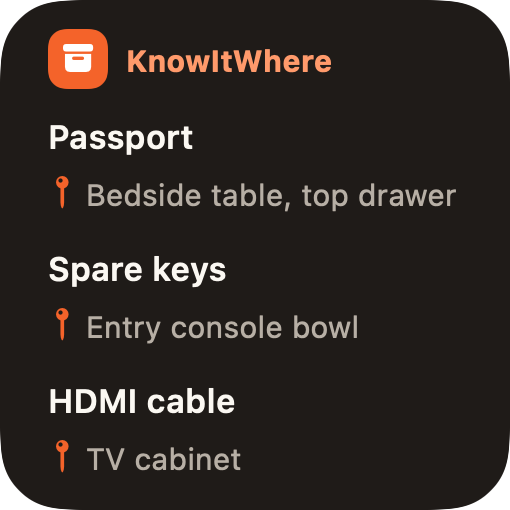
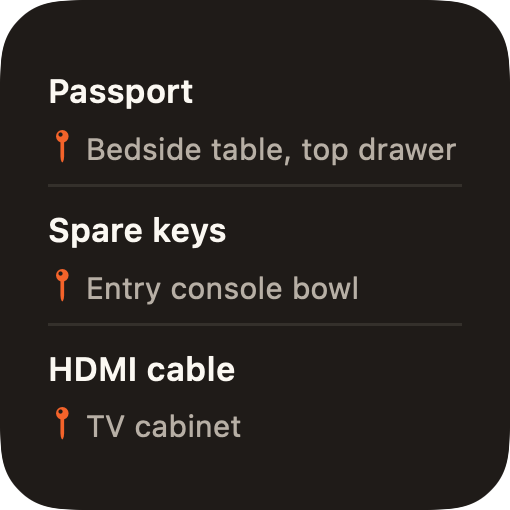
Widget: fit at any text size, cleaner index rows
On the device the medium widget's cards were taller than the widget at a
slightly larger text size, clipping the header and the bottom row. Drop
the app-name header (iOS prints it under the widget), show name/location
rows with hairlines like the app's Index, and pick the most rows that fit
with ViewThatFits so larger text shows fewer items instead of clipping.
Dynamic Type is capped at xxLarge. Pin and + are widgetAccentable for
tinted home screens.

Changed region(s): [[0.0882, 0.0588, 0.9118, 0.9412]]

diff --git a/ios/KnowItWhereKit/Sources/KnowItWhereWidgetUI/KnowItWhereWidget.swift b/ios/KnowItWhereKit/Sources/KnowItWhereWidgetUI/KnowItWhereWidget.swift
@@ -3,7 +3,7 @@ import SwiftUI
 import WidgetKit
 
 /// Home-screen widget (FR4): the most recently updated items as
-/// name → location cards. Display and shortcut only — no input or scrolling.
+/// name → location rows. Display and shortcut only — no input or scrolling.
 public struct KnowItWhereWidget: Widget {
   public init() {}
 
@@ -78,6 +78,10 @@ public struct ItemsWidgetView: View {
 }
 
 /// The widget body without WidgetKit's container, so previews can render it.
+///
+/// No app-name header: iOS already prints "KnowItWhere" under the widget.
+/// Rows are added only while they fit, so large text shows fewer items
+/// instead of clipping the first and last ones.
 struct ItemsWidgetContent: View {
   let entry: ItemsEntry
   let isSmall: Bool
@@ -90,67 +94,84 @@ struct ItemsWidgetContent: View {
       if entry.items.isEmpty {
         EmptyContent(palette: palette)
       } else if isSmall {
-        VStack(alignment: .leading, spacing: 0) {
-          Header(palette: palette, showsAdd: false, linksEnabled: linksEnabled)
-          Spacer(minLength: 6)
-          VStack(alignment: .leading, spacing: 7) {
-            ForEach(SharedCache.recents(entry.items, limit: 3)) { item in
-              StackedRow(item: item, palette: palette)
-            }
-          }
-          Spacer(minLength: 0)
+        ViewThatFits(in: .vertical) {
+          smallRows(limit: 3)
+          smallRows(limit: 2)
+          smallRows(limit: 1)
         }
       } else {
-        VStack(alignment: .leading, spacing: 8) {
-          Header(palette: palette, showsAdd: true, linksEnabled: linksEnabled)
-          LazyVGrid(
-            columns: [GridItem(.flexible(), spacing: 8), GridItem(.flexible(), spacing: 8)],
-            spacing: 8
-          ) {
-            ForEach(SharedCache.recents(entry.items, limit: 4)) { item in
-              WidgetLink(DeepLink.item(item.id), enabled: linksEnabled) {
-                ItemCard(item: item, palette: palette)
-              }
-            }
+        VStack(alignment: .leading, spacing: 4) {
+          MediumHeader(palette: palette, linksEnabled: linksEnabled)
+          ViewThatFits(in: .vertical) {
+            mediumRows(limit: 3)
+            mediumRows(limit: 2)
+            mediumRows(limit: 1)
           }
-          Spacer(minLength: 0)
         }
       }
     }
     .foregroundStyle(palette.text)
     .frame(maxWidth: .infinity, maxHeight: .infinity, alignment: .topLeading)
+    // Past this, even one row stops fitting; Apple's widgets cap it too.
+    .dynamicTypeSize(...DynamicTypeSize.xxLarge)
+  }
+
+  private func smallRows(limit: Int) -> some View {
+    rows(limit: limit) { StackedRow(item: $0, palette: palette) }
+  }
+
+  private func mediumRows(limit: Int) -> some View {
+    rows(limit: limit) { item in
+      WidgetLink(DeepLink.item(item.id), enabled: linksEnabled) {
+        InlineRow(item: item, palette: palette)
+      }
+    }
+  }
+
+  /// The [limit] most recent items, separated by hairlines.
+  private func rows<Row: View>(limit: Int, @ViewBuilder row: @escaping (SharedItem) -> Row)
+    -> some View
+  {
+    let items = SharedCache.recents(entry.items, limit: limit)
+    return VStack(alignment: .leading, spacing: 0) {
+      ForEach(Array(items.enumerated()), id: \.element.id) { index, item in
+        if index > 0 {
+          Rectangle().fill(palette.divider).frame(height: 1)
+        }
+        row(item)
+          .padding(.vertical, 4)
+          // Spread the rows that fit over the full height instead of
+          // leaving a gap at the bottom. ViewThatFits measures ideal
+          // heights, so this doesn't affect how many rows are chosen.
+          .frame(maxHeight: .infinity)
+      }
+    }
   }
 }
 
-/// App mark and name, plus a quick Add button on the medium widget.
-private struct Header: View {
+/// "Recent" and a quick Add button (medium only: small widgets have a single
+/// tap target).
+private struct MediumHeader: View {
   let palette: Palette
-  let showsAdd: Bool
   let linksEnabled: Bool
 
   var body: some View {
-    HStack(spacing: 6) {
-      Image(systemName: "archivebox.fill")
-        .font(.system(size: 10, weight: .bold))
-        .foregroundStyle(.white)
-        .frame(width: 20, height: 20)
-        .background(palette.accent, in: RoundedRectangle(cornerRadius: 6, style: .continuous))
-        .accessibilityHidden(true)
-      Text("KnowItWhere")
-        .font(.caption.weight(.bold))
+    HStack {
+      Text("RECENT")
+        .font(.caption2.weight(.bold))
+        .tracking(0.8)
         .foregroundStyle(palette.accentText)
-        .lineLimit(1)
+        .widgetAccentable()
       Spacer(minLength: 0)
-      if showsAdd {
-        WidgetLink(DeepLink.add, enabled: linksEnabled) {
-          Image(systemName: "plus")
-            .font(.system(size: 12, weight: .bold))
-            .foregroundStyle(.white)
-            .frame(width: 24, height: 24)
-            .background(palette.accent, in: Circle())
-        }
-        .accessibilityLabel("Add item")
+      WidgetLink(DeepLink.add, enabled: linksEnabled) {
+        Image(systemName: "plus")
+          .font(.system(size: 11, weight: .bold))
+          .foregroundStyle(.white)
+          .frame(width: 20, height: 20)
+          .background(palette.accent, in: Circle())
+          .widgetAccentable()
       }
+      .accessibilityLabel("Add item")
     }
   }
 }
@@ -187,31 +208,27 @@ private struct StackedRow: View {
         .lineLimit(1)
       Location(text: item.location, palette: palette)
     }
+    .frame(maxWidth: .infinity, alignment: .leading)
     .accessibilityElement(children: .combine)
     .accessibilityLabel("\(item.name), stored in \(item.location)")
   }
 }
 
-/// Medium widget: a white card per item, like the board's polaroids.
-private struct ItemCard: View {
+/// Medium widget: name and location side by side, like the app's Index.
+private struct InlineRow: View {
   let item: SharedItem
   let palette: Palette
 
   var body: some View {
-    VStack(alignment: .leading, spacing: 2) {
+    HStack(spacing: 8) {
       Text(item.name)
         .font(.subheadline.weight(.semibold))
         .lineLimit(1)
+        .frame(maxWidth: .infinity, alignment: .leading)
       Location(text: item.location, palette: palette)
+        .frame(maxWidth: .infinity, alignment: .trailing)
     }
-    .frame(maxWidth: .infinity, alignment: .leading)
-    .padding(.horizontal, 10)
-    .padding(.vertical, 8)
-    .background(palette.card, in: RoundedRectangle(cornerRadius: 12, style: .continuous))
-    .overlay(
-      RoundedRectangle(cornerRadius: 12, style: .continuous)
-        .strokeBorder(palette.cardBorder, lineWidth: 1)
-    )
+    .contentShape(Rectangle())
     .accessibilityElement(children: .combine)
     .accessibilityLabel("\(item.name), stored in \(item.location)")
   }
@@ -226,6 +243,7 @@ private struct Location: View {
       Image(systemName: "mappin")
         .font(.caption2.weight(.bold))
         .foregroundStyle(palette.accent)
+        .widgetAccentable()
       Text(text)
         .font(.caption)
         .foregroundStyle(palette.secondary)
@@ -271,9 +289,8 @@ private struct EmptyContent: View {
 /// Cream / ink / orange, matching the app theme (lib/theme/app_theme.dart).
 struct Palette {
   let background: Color
-  /// Item cards on the medium widget.
-  let card: Color
-  let cardBorder: Color
+  /// Hairlines between rows.
+  let divider: Color
   let text: Color
   let secondary: Color
   /// Icons and fills.
@@ -285,15 +302,13 @@ struct Palette {
     accent = Color(hex: 0xF4632A)
     if scheme == .dark {
       background = Color(hex: 0x1F1B18)
-      card = Color(hex: 0x2A2622)
-      cardBorder = Color(hex: 0x34302B)
+      divider = Color(hex: 0x34302B)
       text = Color(hex: 0xFBF8F2)
       secondary = Color(hex: 0xB7AFA5)
       accentText = Color(hex: 0xFF9A6B)
     } else {
       background = Color(hex: 0xFFF2E6)
-      card = .white
-      cardBorder = Color(hex: 0xF4D4BD)
+      divider = Color(hex: 0xF4D4BD)
       text = Color(hex: 0x261D17)
       secondary = Color(hex: 0x867265)
       accentText = Color(hex: 0xB4430F)

diff --git a/ios/KnowItWhereKit/Tests/KnowItWhereWidgetUITests/WidgetPreviewTests.swift b/ios/KnowItWhereKit/Tests/KnowItWhereWidgetUITests/WidgetPreviewTests.swift
@@ -27,17 +27,38 @@ final class WidgetPreviewTests: XCTestCase {
       for (family, size) in [("small", small), ("medium", medium)] {
         for (state, list) in [("items", items), ("empty", [])] {
           let name = "widget_\(family)_\(state)_\(scheme == .dark ? "dark" : "light")"
-          let data = try XCTUnwrap(render(list, isSmall: family == "small", scheme: scheme, size: size), name)
-          XCTAssertGreaterThan(data.count, 0)
-          if let dir = ProcessInfo.processInfo.environment["WIDGET_PREVIEW_DIR"] {
-            try data.write(to: URL(fileURLWithPath: dir).appendingPathComponent("\(name).png"))
-          }
+          try check(name, list, isSmall: family == "small", scheme: scheme, size: size)
         }
       }
     }
   }
 
-  private func render(_ items: [SharedItem], isSmall: Bool, scheme: ColorScheme, size: CGSize) -> Data? {
+  /// Larger text must drop rows, never clip them (the first device build
+  /// cut off the top and bottom rows at a larger text size). macOS ignores
+  /// the Dynamic Type environment, so this squeezes the height instead:
+  /// 30% less room is what 30% larger text needs. Written with a
+  /// "_tight" suffix for comparing by eye; not committed.
+  func testTightHeightRenders() throws {
+    for (family, size) in [("small", small), ("medium", medium)] {
+      try check(
+        "widget_\(family)_items_tight", items, isSmall: family == "small", scheme: .light,
+        size: CGSize(width: size.width, height: ((size.height - 32) / 1.3) + 32))
+    }
+  }
+
+  private func check(
+    _ name: String, _ list: [SharedItem], isSmall: Bool, scheme: ColorScheme, size: CGSize
+  ) throws {
+    let data = try XCTUnwrap(render(list, isSmall: isSmall, scheme: scheme, size: size), name)
+    XCTAssertGreaterThan(data.count, 0)
+    if let dir = ProcessInfo.processInfo.environment["WIDGET_PREVIEW_DIR"] {
+      try data.write(to: URL(fileURLWithPath: dir).appendingPathComponent("\(name).png"))
+    }
+  }
+
+  private func render(
+    _ items: [SharedItem], isSmall: Bool, scheme: ColorScheme, size: CGSize
+  ) -> Data? {
     let palette = Palette(scheme)
     let view = ItemsWidgetContent(
       entry: ItemsEntry(date: .now, items: items), isSmall: isSmall, palette: palette,

diff --git a/docs/SRS.md b/docs/SRS.md
@@ -132,7 +132,7 @@ No photo reference needed here — widget and Siri are both text-first by design
 
 ### FR4 — Widget (Native, reads §4.1 shared cache)
 
-- **FR4.1** Small/Medium widget shows the 3–5 most recently updated items as name → location rows
+- **FR4.1** Small/Medium widget shows up to 3 of the most recently updated items as name → location rows (fewer at large text sizes, never clipped)
 - **FR4.2** Tapping a row deep-links to that item's detail screen (app launches if needed)
 - **FR4.3** Tapping empty widget space opens the app; the medium widget also has a "+" button that deep-links to Add Item (changed after device testing, 2026-10-24)
 - **FR4.4** Widget has a graceful empty state ("Nothing saved yet — tap to add your first"); tapping it deep-links to Add Item
